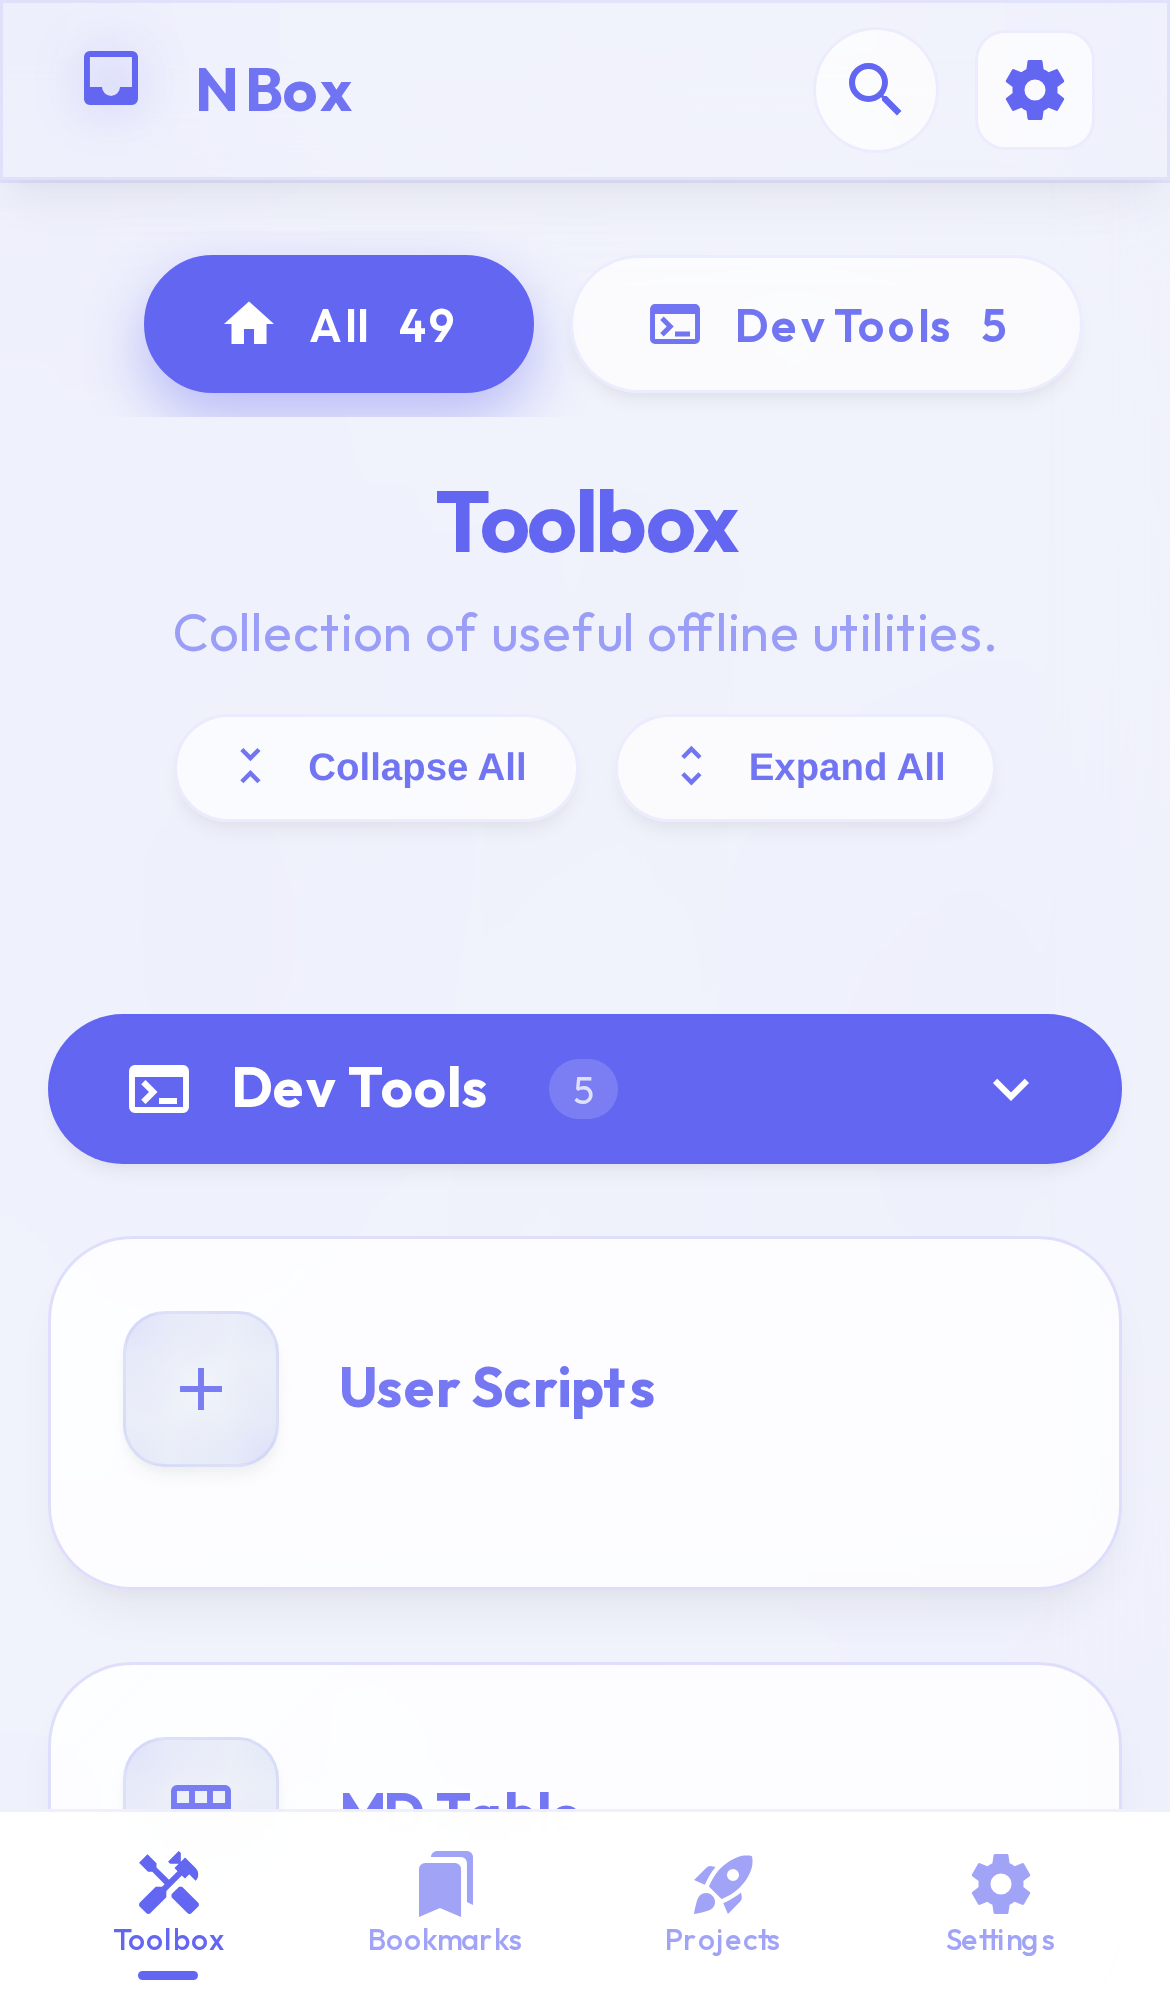
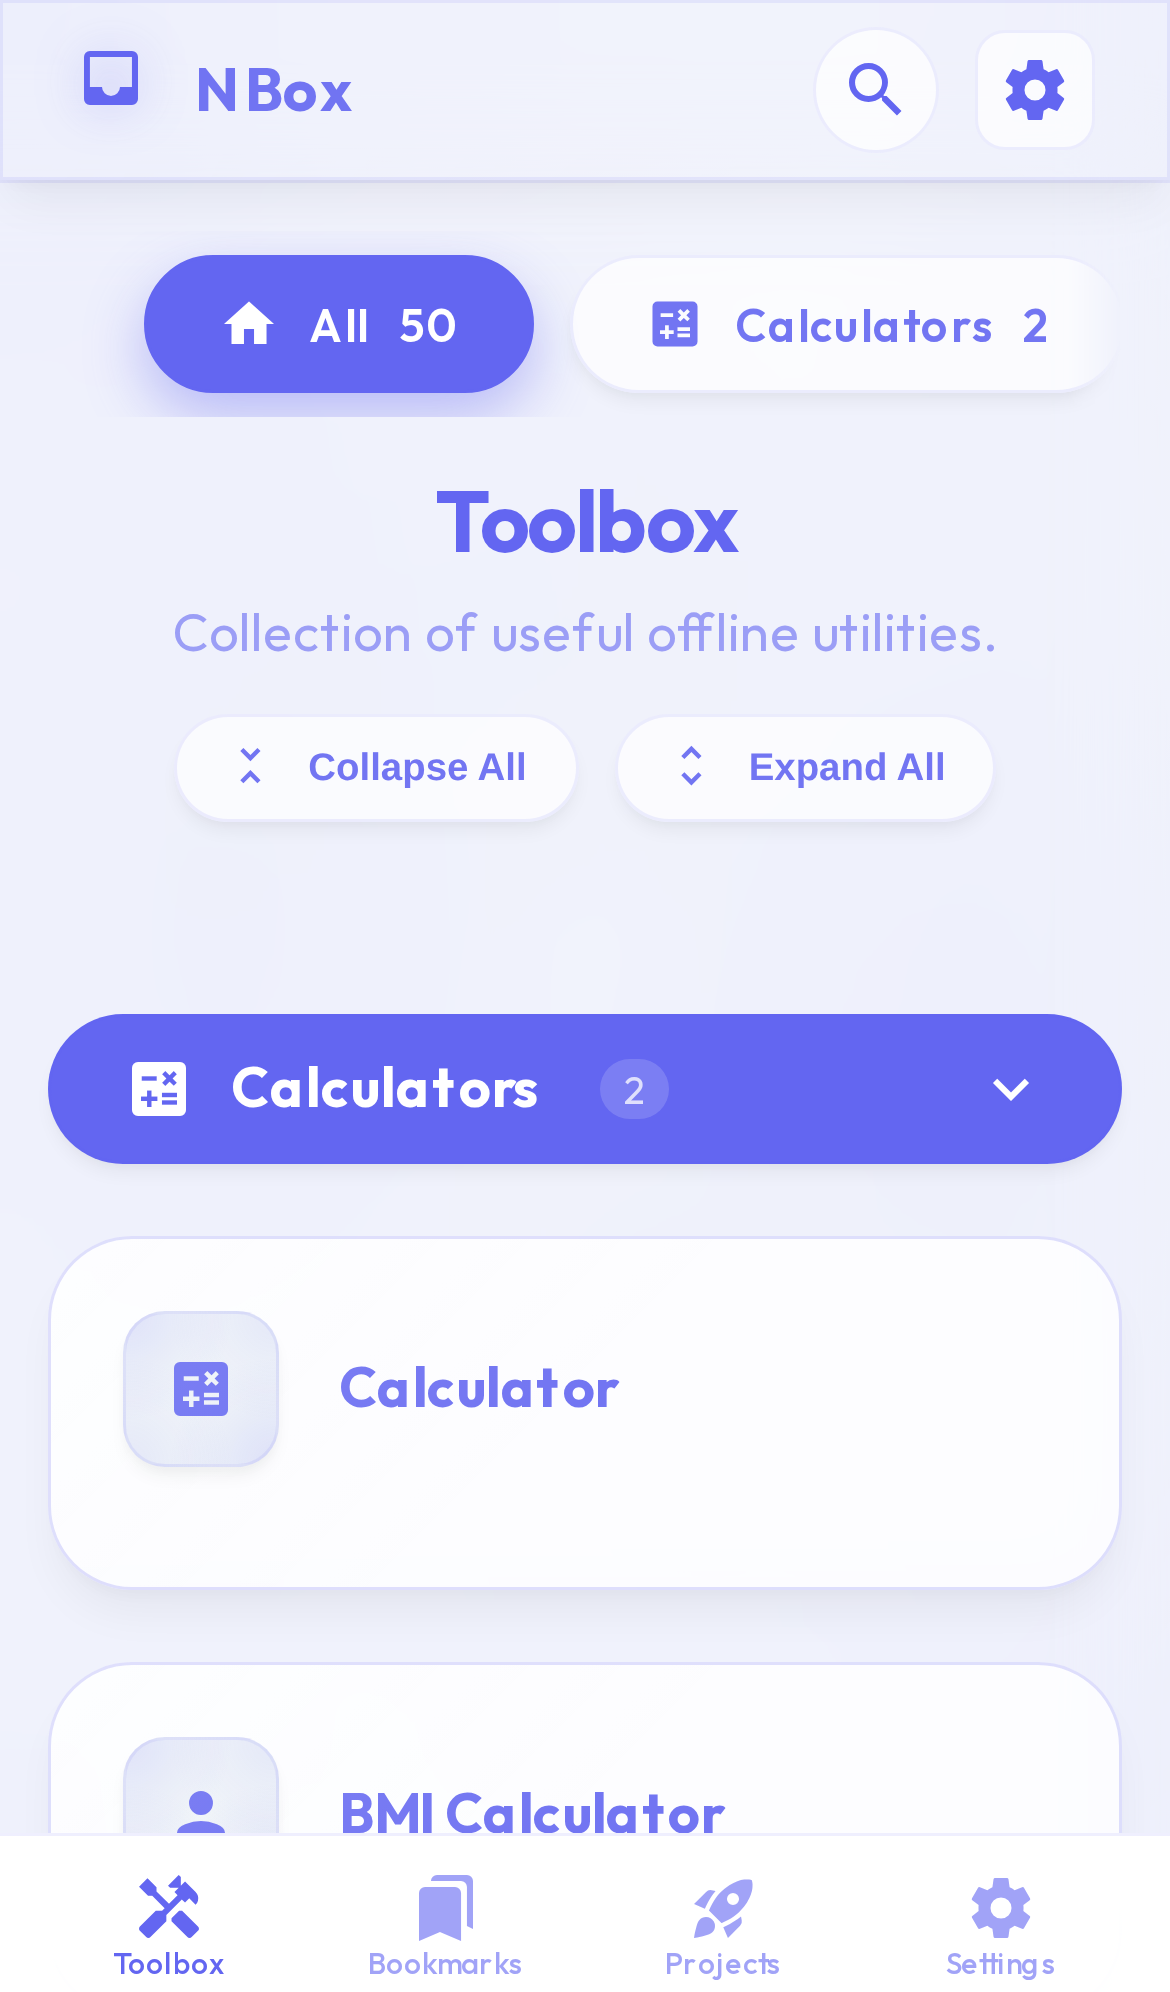
fix: optimize mobile bottom bar layout and reorganize toolbox categories
- Reduced extra bottom padding in `.tab-bar` by removing the fixed 8px offset.
- Adjusted content container bottom padding to 100px for better mobile clearance.
- Reorganized toolbox tools into new intuitive categories: Time, Design, Media, and Random.
- Refactored `AndroidSensors` component with robust permission checks and fixed a variable assignment bug in sensor initialization.

diff --git a/src/components/ToolboxView.jsx b/src/components/ToolboxView.jsx
@@ -54,14 +54,17 @@ import MarkdownTable from './tools/MarkdownTable';
 const TOOLS = [
     // Calculators
     { id: 'calculator', title: 'Calculator', icon: 'calculate', category: 'Calculators', component: Calculator },
-    { id: 'age-calculator', title: 'Age Calculator', icon: 'calendar_today', category: 'Calculators', component: AgeCalculator },
     { id: 'bmi-calculator', title: 'BMI Calculator', icon: 'person', category: 'Calculators', component: BMICalculator },
+
+    // Time
+    { id: 'age-calculator', title: 'Age Calculator', icon: 'calendar_today', category: 'Time', component: AgeCalculator },
+    { id: 'timestamp-conv', title: 'Timestamp', icon: 'schedule', category: 'Time', component: TimestampConverter },
+    { id: 'pomodoro', title: 'Pomodoro', icon: 'timer', category: 'Time', component: PomodoroTimer },
+    { id: 'stopwatch', title: 'Stopwatch', icon: 'timer', category: 'Time', component: Stopwatch },
 
     // Converters
     { id: 'unit-converter', title: 'Unit Converter', icon: 'balance', category: 'Converters', component: UnitConverter },
     { id: 'currency-converter', title: 'Currency', icon: 'payments', category: 'Converters', component: CurrencyConverter },
-    { id: 'timestamp-conv', title: 'Timestamp', icon: 'schedule', category: 'Converters', component: TimestampConverter },
-    { id: 'base64-converter', title: 'Base64', icon: 'transform', category: 'Converters', component: Base64Converter },
 
     // Text Tools
     { id: 'translate', title: 'Translate', icon: 'translate', category: 'Text Tools', component: Translate },
@@ -71,7 +74,6 @@ const TOOLS = [
     { id: 'lorem-ipsum', title: 'Lorem Ipsum', icon: 'notes', category: 'Text Tools', component: LoremIpsum },
 
     // Web Tools
-    { id: 'qr-gen', title: 'QR Gen', icon: 'qr_code_2', category: 'Web Tools', component: QrGen },
     { id: 'url-tool', title: 'URL Tool', icon: 'link', category: 'Web Tools', component: UrlTool },
     { id: 'json-formatter', title: 'JSON Formatter', icon: 'code', category: 'Web Tools', component: JsonFormatter },
     { id: 'csv-json', title: 'CSV/JSON', icon: 'swap_horiz', category: 'Web Tools', component: CsvJsonConverter },
@@ -91,23 +93,29 @@ const TOOLS = [
     { id: 'device-info', title: 'Device Info', icon: 'memory', category: 'System', component: DeviceInfo },
     { id: 'android-sensors', title: 'Sensors', icon: 'sensors', category: 'System', component: AndroidSensors },
 
+    // Design
+    { id: 'color-picker', title: 'Color Picker', icon: 'palette', category: 'Design', component: ColorPicker },
+    { id: 'glass-gen', title: 'Glass Gen', icon: 'blur_on', category: 'Design', component: GlassGenerator },
+
+    // Media
+    { id: 'qr-gen', title: 'QR Gen', icon: 'qr_code_2', category: 'Media', component: QrGen },
+    { id: 'img-optimizer', title: 'Image Optimizer', icon: 'image', category: 'Media', component: ImageOptimizer },
+
+    // Random
+    { id: 'dice-roller', title: 'Dice Roller', icon: 'casino', category: 'Random', component: DiceRoller },
+    { id: 'coin-flipper', title: 'Coin Flip', icon: 'monetization_on', category: 'Random', component: CoinFlipper },
+
     // Dev Tools
     { id: 'markdown-preview', title: 'Markdown', icon: 'article', category: 'Dev Tools', component: MarkdownPreview },
     { id: 'markdown-table', title: 'MD Table', icon: 'grid_on', category: 'Dev Tools', component: MarkdownTable },
     { id: 'diff-viewer', title: 'Diff Viewer', icon: 'difference', category: 'Dev Tools', component: DiffViewer },
-    { id: 'color-picker', title: 'Color Picker', icon: 'palette', category: 'Dev Tools', component: ColorPicker },
-    { id: 'glass-gen', title: 'Glass Gen', icon: 'blur_on', category: 'Dev Tools', component: GlassGenerator },
+    { id: 'base64-converter', title: 'Base64', icon: 'transform', category: 'Dev Tools', component: Base64Converter },
     { id: 'user-scripts', title: 'User Scripts', icon: 'add', category: 'Dev Tools', component: UserScripts },
 
     // Misc
     { id: 'notes', title: 'Notes', icon: 'description', category: 'Misc', component: Notes },
-    { id: 'pomodoro', title: 'Pomodoro', icon: 'timer', category: 'Misc', component: PomodoroTimer },
-    { id: 'stopwatch', title: 'Stopwatch', icon: 'timer', category: 'Misc', component: Stopwatch },
     { id: 'ai-summary', title: 'AI Summary', icon: 'auto_fix_high', category: 'Misc', component: AiSummary },
     { id: 'counter', title: 'Counter', icon: 'add_circle_outline', category: 'Misc', component: Counter },
-    { id: 'img-optimizer', title: 'Image Optimizer', icon: 'image', category: 'Misc', component: ImageOptimizer },
-    { id: 'dice-roller', title: 'Dice Roller', icon: 'casino', category: 'Misc', component: DiceRoller },
-    { id: 'coin-flipper', title: 'Coin Flip', icon: 'monetization_on', category: 'Misc', component: CoinFlipper },
     { id: 'panchangam', title: 'Panchangam', icon: 'auto_awesome', category: 'Misc', component: TeluguPanchangam },
     { id: 'morse', title: 'Morse', icon: 'timeline', category: 'Misc', component: MorseCode },
 
@@ -429,9 +437,13 @@ const ToolboxView = ({ searchQuery, groupToolbox, showStats, recentTools, setRec
 const getCategoryIcon = (cat) => {
     const icons = {
         'Calculators': 'calculate',
+        'Time': 'schedule',
         'Converters': 'swap_horiz',
         'Text Tools': 'title',
         'Web Tools': 'public',
+        'Design': 'palette',
+        'Media': 'perm_media',
+        'Random': 'casino',
         'Security': 'security',
         'System': 'settings_input_component',
         'Dev Tools': 'terminal',

diff --git a/src/components/tools/AndroidSensors.jsx b/src/components/tools/AndroidSensors.jsx
@@ -56,20 +56,51 @@ const AndroidSensors = ({ onResultChange }) => {
 
     // Generic Sensor API (Chrome/Android)
     let lightSensor, proximitySensor;
-    try {
-      if ('AmbientLightSensor' in window) {
-        lightSensor = new window.AmbientLightSensor();
-        lightSensor.onreading = () => setAmbient(prev => ({ ...prev, light: lightSensor.illuminance.toFixed(1) + ' lx' }));
-        lightSensor.start();
-      }
-      if ('ProximitySensor' in window) {
-        proximitySensor = new window.ProximitySensor();
-        proximitySensor.onreading = () => setAmbient(prev => ({ ...prev, proximity: (proximitySensor.distance || 'Near') + ' cm' }));
-        proximitySensor.start();
-      }
-    } catch (e) {
-      console.warn('Generic Sensor API not supported:', e);
-    }
+
+    const startSensors = async () => {
+        try {
+            if ('AmbientLightSensor' in window) {
+                // Check for permission first if possible
+                if (navigator.permissions && navigator.permissions.query) {
+                    const result = await navigator.permissions.query({ name: 'ambient-light-sensor' });
+                    if (result.state === 'denied') {
+                        setAmbient(prev => ({ ...prev, light: 'Permission Denied' }));
+                    } else {
+                        lightSensor = new window.AmbientLightSensor();
+                        lightSensor.onreading = () => setAmbient(prev => ({ ...prev, light: lightSensor.illuminance.toFixed(1) + ' lx' }));
+                        lightSensor.onerror = (event) => {
+                            console.error('Light Sensor Error:', event.error);
+                            setAmbient(prev => ({ ...prev, light: 'Error: ' + event.error.name }));
+                        };
+                        lightSensor.start();
+                    }
+                } else {
+                    lightSensor = new window.AmbientLightSensor();
+                    lightSensor.onreading = () => setAmbient(prev => ({ ...prev, light: lightSensor.illuminance.toFixed(1) + ' lx' }));
+                    lightSensor.start();
+                }
+            } else {
+                setAmbient(prev => ({ ...prev, light: 'Not Supported' }));
+            }
+
+            if ('ProximitySensor' in window) {
+                // Proximity sensor often requires a flag or specific environment
+                proximitySensor = new window.ProximitySensor();
+                proximitySensor.onreading = () => setAmbient(prev => ({ ...prev, proximity: (proximitySensor.distance || 'Near') + ' cm' }));
+                proximitySensor.onerror = (event) => {
+                    console.error('Proximity Sensor Error:', event.error);
+                    setAmbient(prev => ({ ...prev, proximity: 'Error: ' + event.error.name }));
+                };
+                proximitySensor.start();
+            } else {
+                setAmbient(prev => ({ ...prev, proximity: 'Not Supported' }));
+            }
+        } catch (e) {
+            console.warn('Generic Sensor API error:', e);
+        }
+    };
+
+    startSensors();
 
     return () => {
       window.removeEventListener('devicemotion', handleMotion);

diff --git a/css/style.css b/css/style.css
@@ -1612,7 +1612,7 @@ body.no-aurora::after {
     backdrop-filter: blur(24px);
     -webkit-backdrop-filter: blur(24px);
     border-top: 1px solid var(--border);
-    padding: 8px 16px calc(8px + env(safe-area-inset-bottom));
+    padding: 8px 16px env(safe-area-inset-bottom);
     z-index: 4000;
     gap: 12px;
     justify-content: space-between;
@@ -1799,7 +1799,7 @@ body.no-aurora::after {
   }
 
   .tools-container {
-    padding: 1rem 1rem 120px 1rem;
+    padding: 1rem 1rem 100px 1rem;
     border-radius: 0;
   }
 
@@ -2077,7 +2077,7 @@ body.no-glass[data-theme="dark"] {
     max-width: 800px;
     margin: 0 auto;
     padding: 1rem;
-    padding-bottom: 120px;
+    padding-bottom: 100px;
 }
 
 @media (max-width: 768px) {
